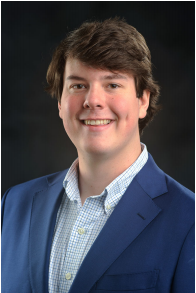
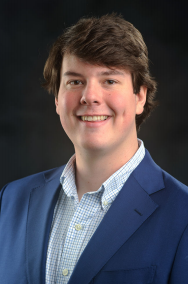
fixed headshot

diff --git a/design.css b/design.css
@@ -56,19 +56,22 @@ a:hover{
 .hero img{
     width:100%;
     height:100%;
+    transform: scale(1.0,1.0)
 }
 h3 sub{
    color: #aaa;
    vertical-align: baseline; 
 }
 .headshot{
-    transition: transform 10s, box-shadow 1s;
-    width: 300px;
-    height: 350px;
-    border-radius: 50%;
+    
+    transition: transform 5s, box-shadow 1s;
+    width: 400px;
+    height: 450px;
+    border-radius: 100%;
     overflow: hidden;
     margin-left: auto;
     margin-right: auto;
+    
 
 }
 .headshot:hover{
